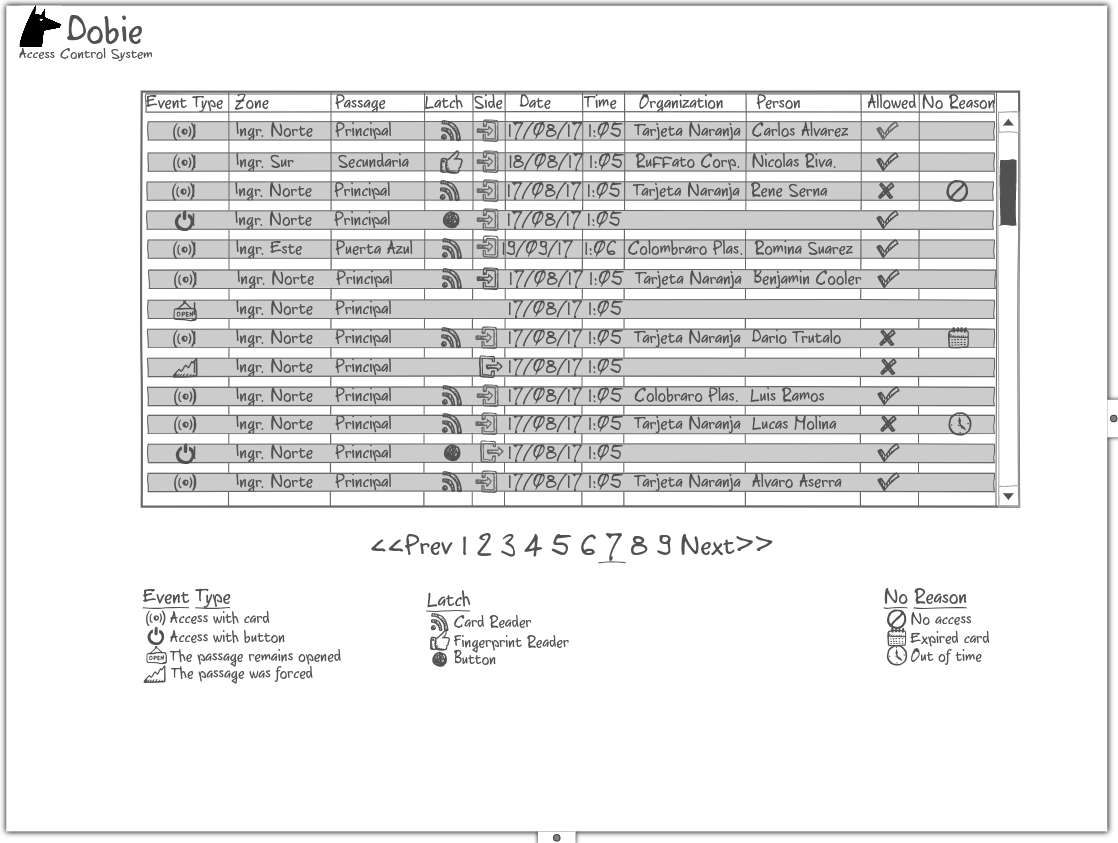
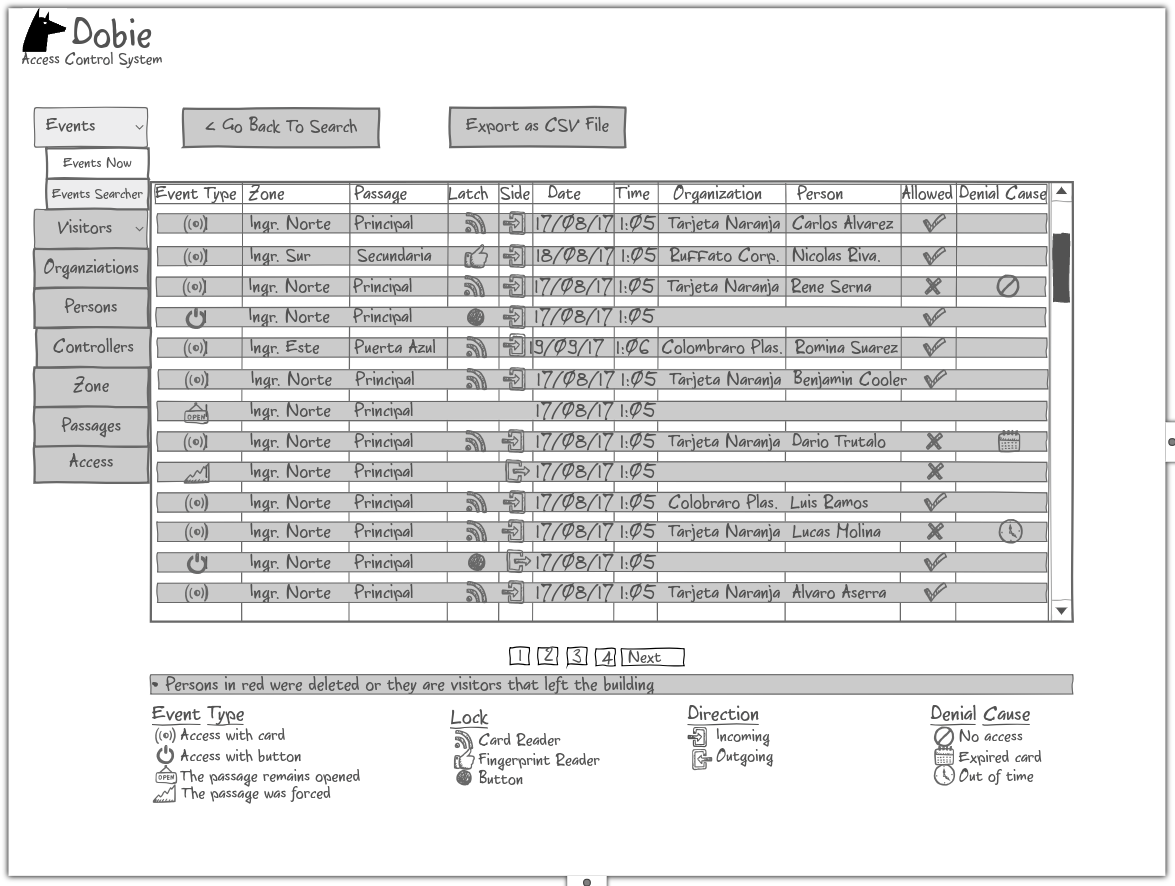
Add export events as CSV button in specs

diff --git a/docs/front_end_specs.rst b/docs/front_end_specs.rst
@@ -1921,6 +1921,8 @@ When all the filters are applied and search button is pressed a pop up window wi
 
 .. image:: images_front_end_specs/events_report.png
 
+A button at the top will allow to export all pages of the result as a .csv file
+
 
 Visits
 ------
